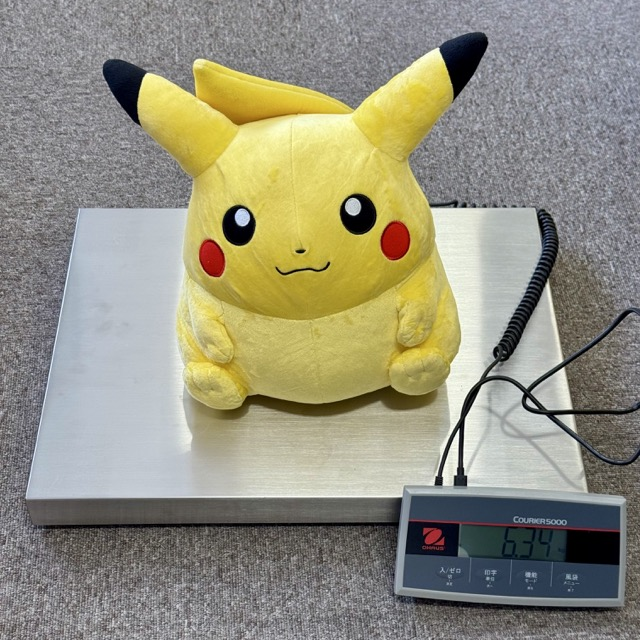
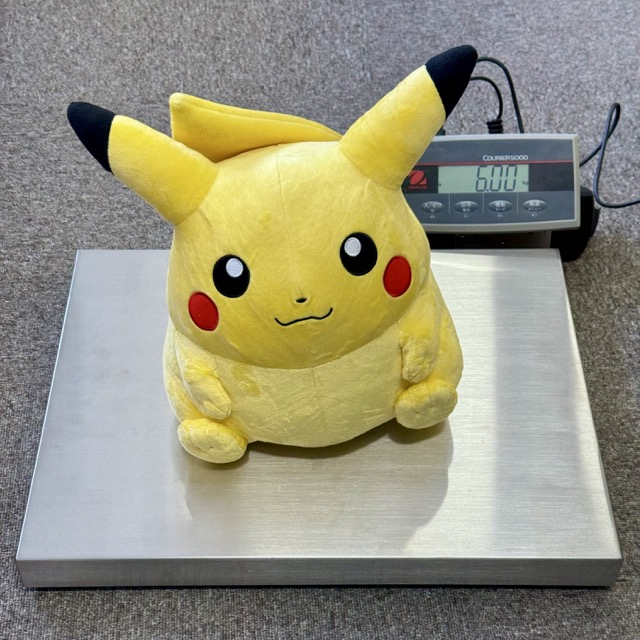
Update photo to Pikachu's true 6.00 kg reading

diff --git a/README.md b/README.md
@@ -3,7 +3,7 @@
 Minimal proof-of-concept for reading weight from an **OHAUS Courier 5000** scale
 over its USB-serial interface on macOS / Linux.
 
-![Pikachu on the Courier 5000 — 6.34 kg](pikachu-on-scale.jpeg)
+![Pikachu on the Courier 5000 — 6.00 kg](pikachu-on-scale.jpeg)
 
 ## Hardware
 
